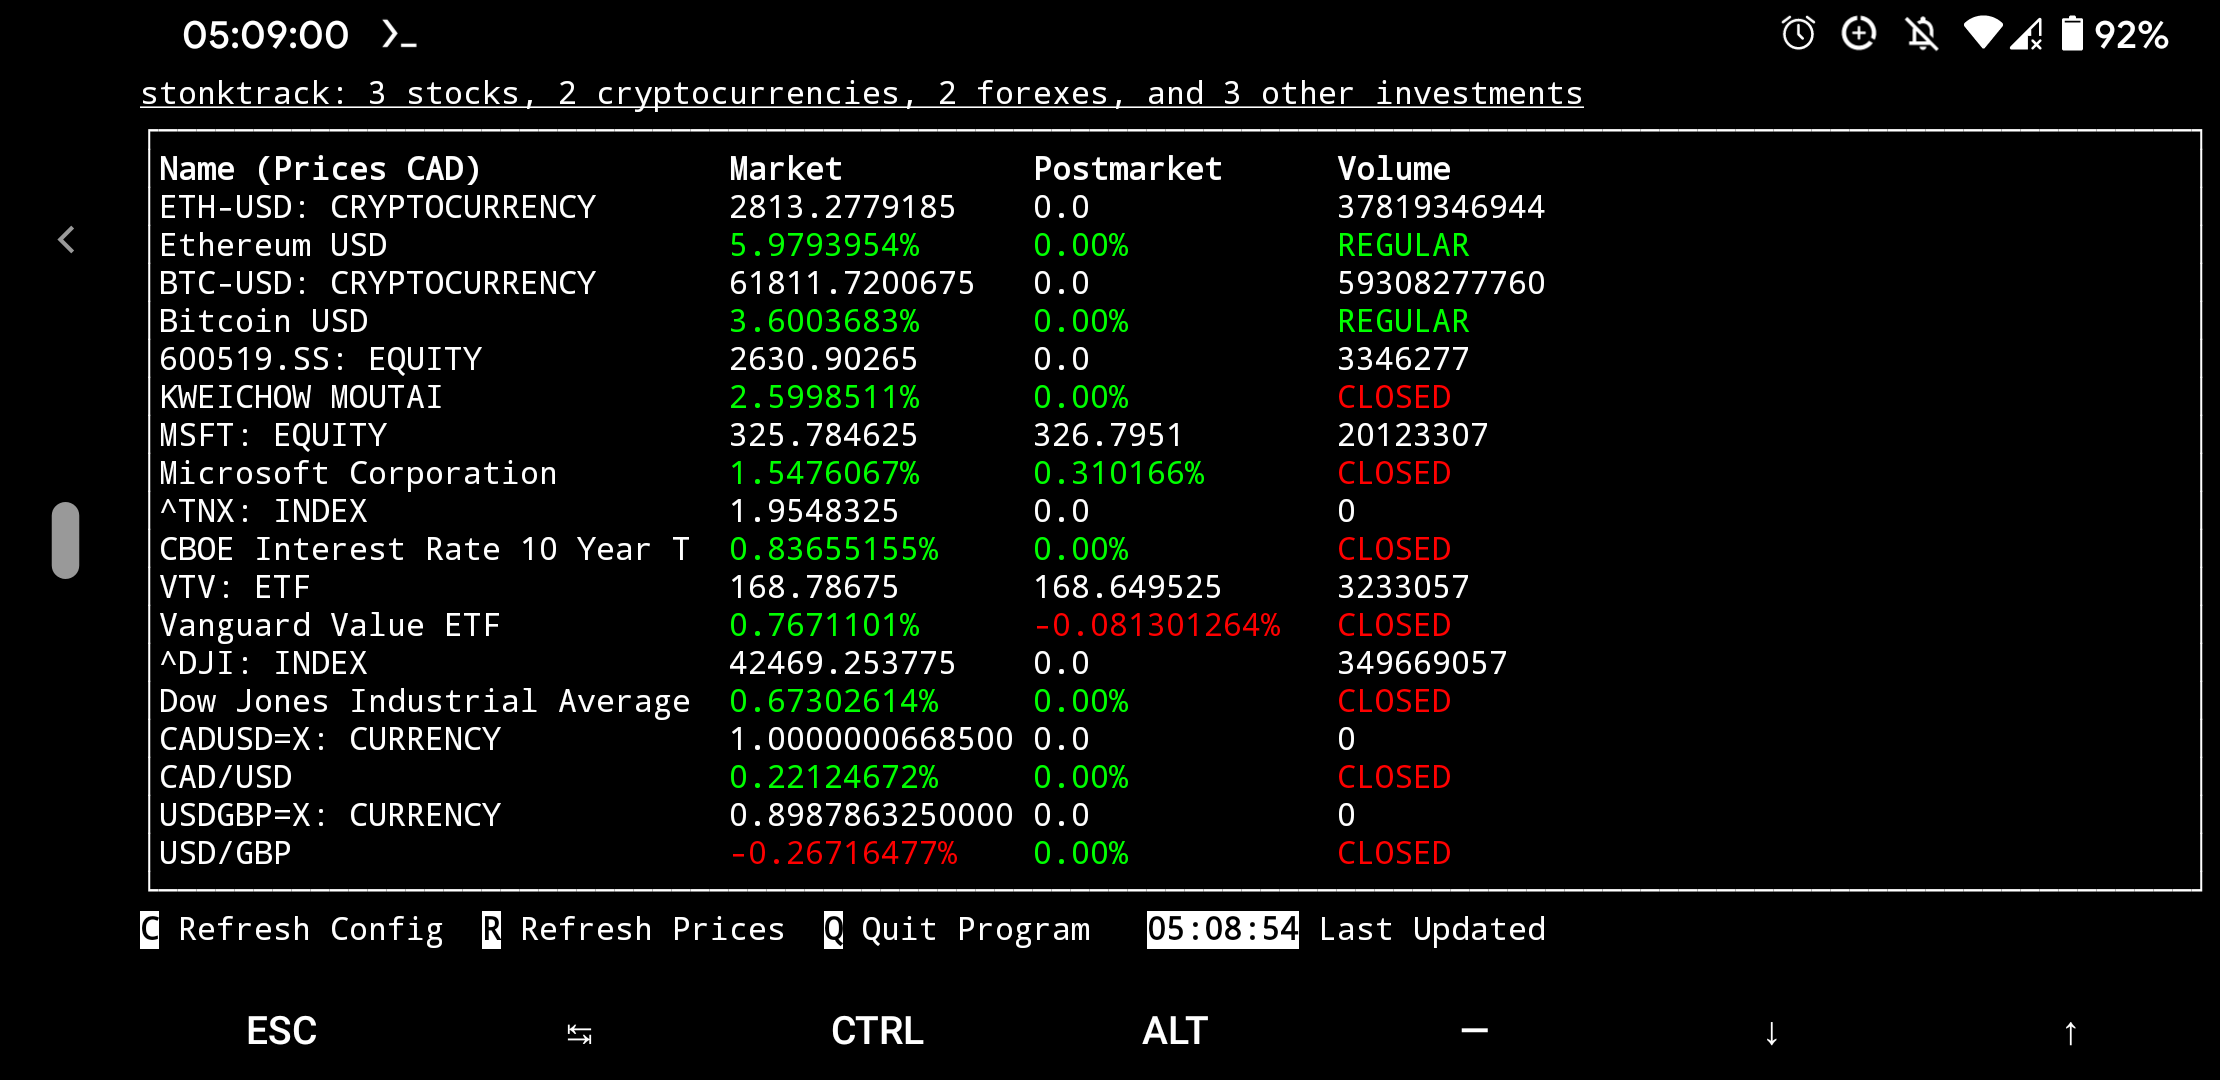
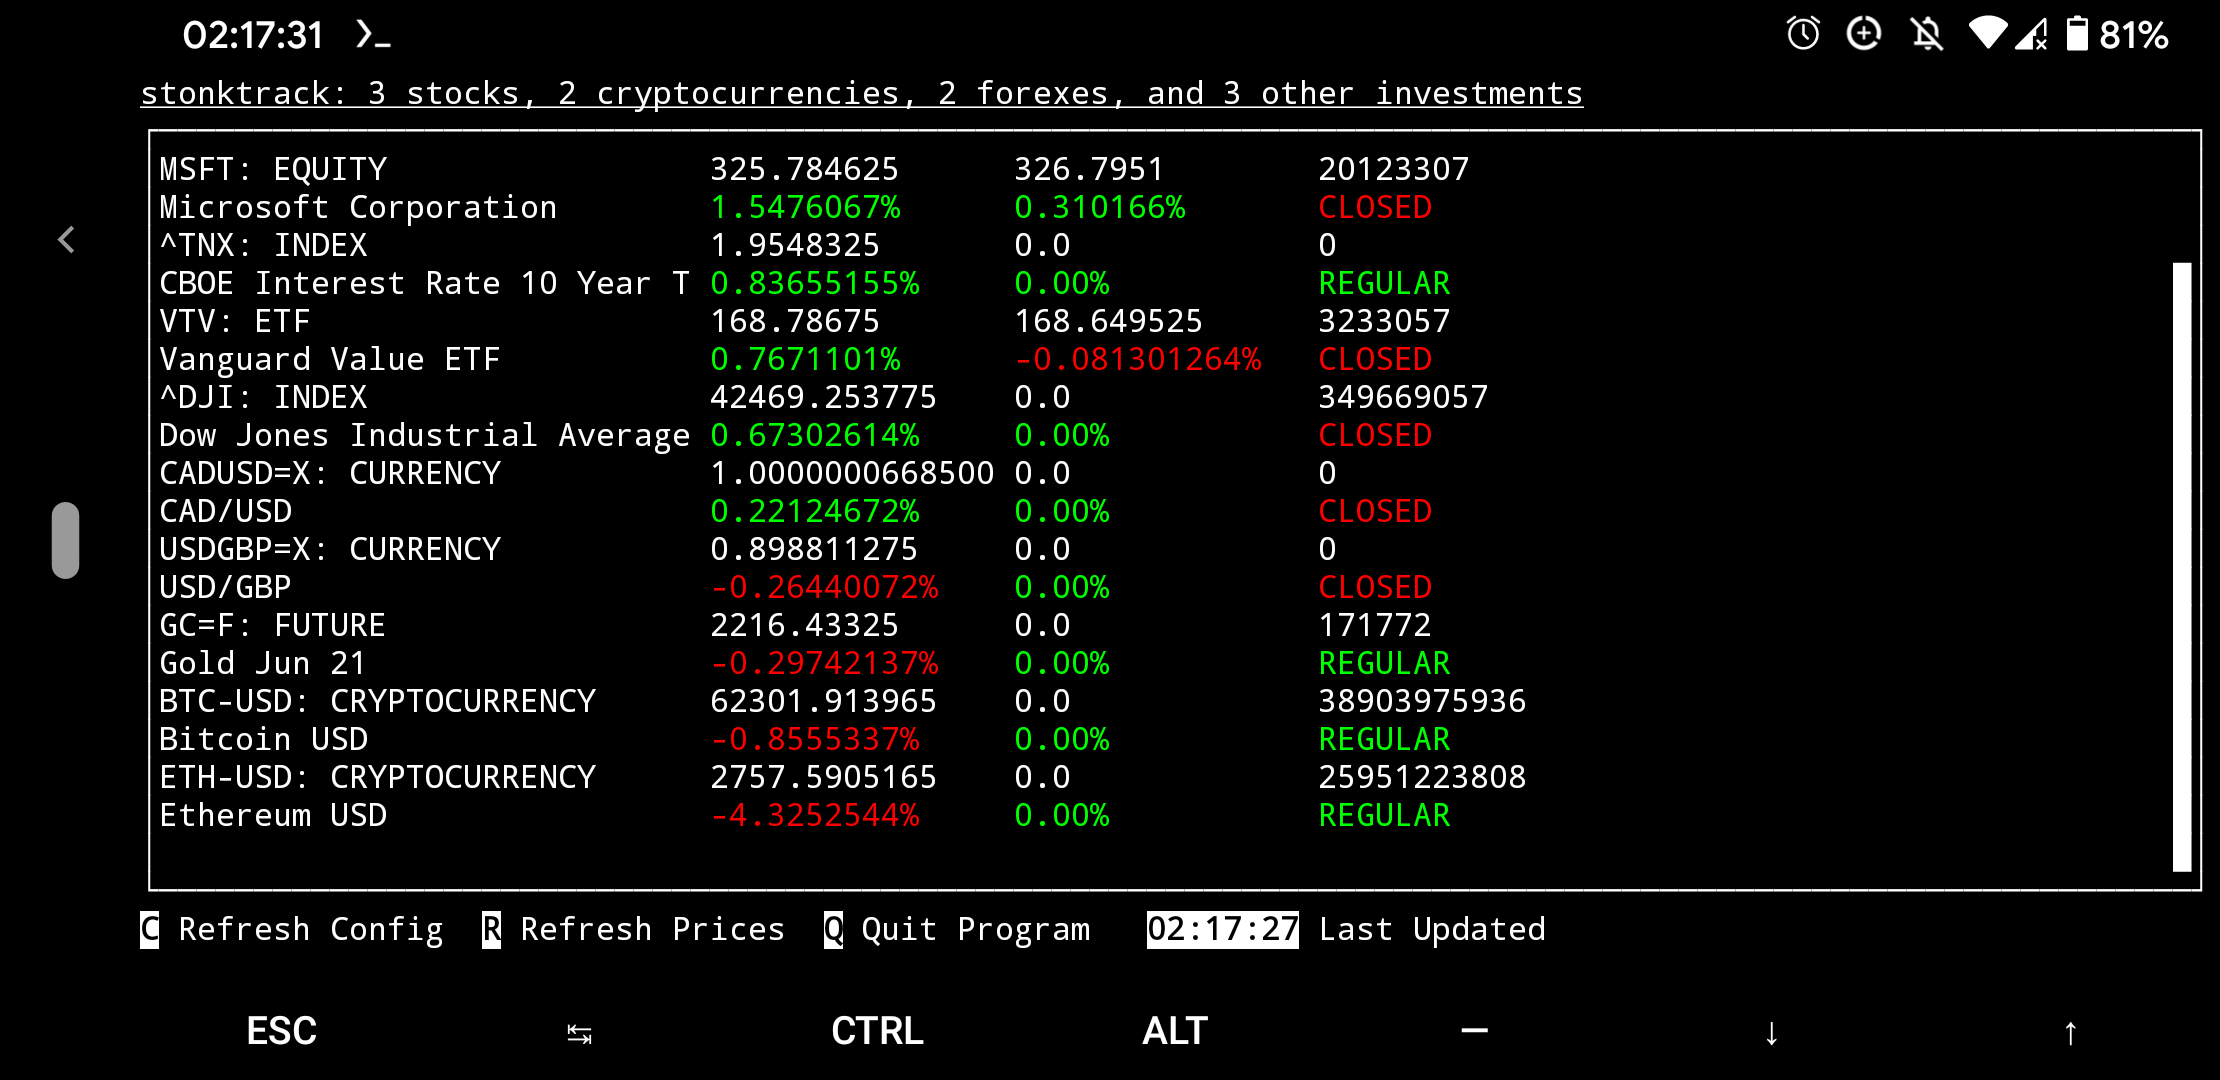
document new scrolling feature

diff --git a/scroll.py b/scroll.py
@@ -6,6 +6,7 @@
 # but WITHOUT ANY WARRANTY; without even the implied warranty of
 # MERCHANTABILITY or FITNESS FOR A PARTICULAR PURPOSE.  See the
 # GNU General Public License for more details
+
 # http://www.gnu.org/licenses/gpl-3.0.txt
 
 # Modified from https://github.com/rndusr/stig/blob/master/stig/tui/scroll.py by rndusr

diff --git a/README.md b/README.md
@@ -10,14 +10,11 @@ Stonktrack is a terminal utility that can track stocks, cryptocurrencies, forexe
 ### Installing and Running
 This program can be installed in two different ways. You can install it directly with pip (recommended), or clone the repository and run the code yourself. Either way, you will need Python 3.8 or higher to run the code.
 
-Once you have installed the program with pip or cloned the repository, there are two versions of the program to choose from. `stonktrack` is the official supported version with colour and no scrolling, and `stonktrack-scroll` is the non-supported monochrome version with scrolling. `stonktrack` is recommend.
-
 #### Using Pip
 ```
 $ pip3 install stonktrack
 $ nano config.yml
 $ python3 -m stonktrack
-$ python3 -m stonktrack-scroll
 ```
 
 #### Manually
@@ -27,7 +24,6 @@ $ cd stonktrack
 $ pip3 install -r requirements.txt
 $ nano config.yml
 $ python3 stonktrack.py
-$ python3 stonktrack-scroll.py
 ```
 
 ### Usage
@@ -35,12 +31,7 @@ Stonktrack is configured through a single configuration file named `config.yml`.
 
 ## Screenshots
 ![stonktrack](screenshots/stonktrack.png)
-> Normal stonktrack, with colour but no scrolling
-
----
-
-![stonktrack-scroll](screenshots/stonktrack-scroll.png)
-> Stonktrack-scroll, in monochrome but with scrolling
+> Normal stonktrack, with colour and a scrollbar
 
 ---
 
